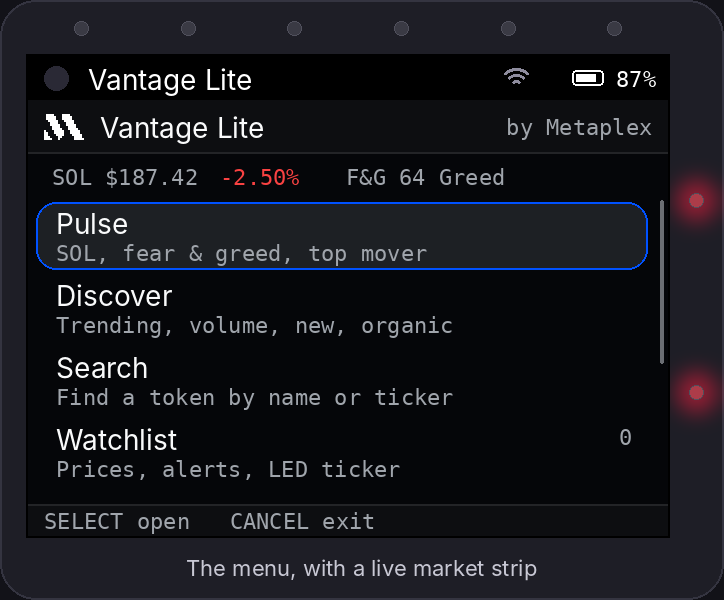
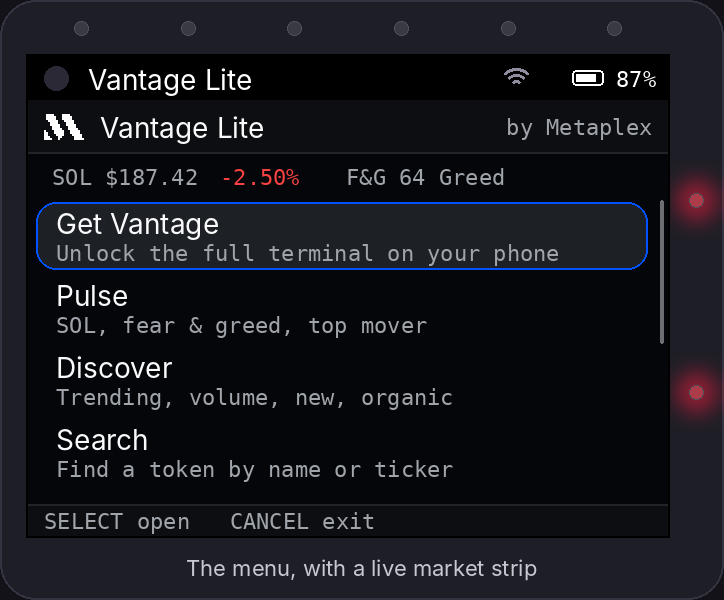
Get Vantage: unlock the real Vantage terminal for a badge's owner
A new first menu item on the badge shows a QR code that opens
https://vantage.metaplex.com/badge?t=<ticket>. Signing in there grants
that account Vantage access, one account per badge owner (the Vantage
side is metaplex-global/genesis-app, apps/terminal/app/api/badge-access).

Server: POST /v1/vantage-access mints the ticket only for a request the
badge server signed and only for a claimed badge (its owner's user id):
85 bytes, base64url, version + first 16 bytes of SHA-256(owner id) +
expiry (10 minutes) + an Ed25519 signature over a domain-separated
payload, with VANTAGE_ACCESS_SIGNING_KEY (unset: 404, "off on this
server"). 20 links a day per badge. npm run access:keygen prints the
signing key for Railway and the public key for Vantage's
BADGE_ACCESS_PUBLIC_KEY.

Badge: screens/vantage.lua, with the steps, a countdown, SELECT for a
new code and an expired code hidden.

Tests: the minted ticket against an independent copy of Vantage's
check, the route's refusals and daily cap; two new badge scenarios (24
pass); fixtures and renders regenerated. A one-off run also verified a
ticket minted here with genesis-app's real verifier.

Claude-Session: https://claude.ai/code/session_01J3iNRJYCuCTFMc8fS2BbsN

diff --git a/server/test/vantage-access.test.ts b/server/test/vantage-access.test.ts
@@ -1,0 +1,81 @@
+import { createHash } from 'node:crypto';
+import { afterEach, beforeAll, describe, expect, it, vi } from 'vitest';
+import { handle } from '../src/app';
+import { DOMAIN, TICKET_TTL_SECONDS, mintTicket, signingKey } from '../src/vantage-access';
+import { installWorld, post, testEnv } from './helpers';
+
+let pair: CryptoKeyPair;
+let pkcs8: string;
+let publicKey: CryptoKey;
+
+beforeAll(async () => {
+  pair = (await crypto.subtle.generateKey('Ed25519', true, ['sign', 'verify'])) as CryptoKeyPair;
+  pkcs8 = Buffer.from((await crypto.subtle.exportKey('pkcs8', pair.privateKey)) as ArrayBuffer).toString('base64');
+  publicKey = pair.publicKey;
+});
+afterEach(() => vi.unstubAllGlobals());
+
+/**
+ * Vantage's check, written out independently of mintTicket (the real one is
+ * apps/terminal/lib/badge-access/ticket.ts in genesis-app): if either side's
+ * layout drifts, this test fails.
+ */
+async function vantageVerify(ticket: string, now: number) {
+  const bytes = Buffer.from(ticket, 'base64url');
+  if (bytes.length !== 85 || bytes[0] !== 1) return null;
+  const message = Buffer.concat([Buffer.from(DOMAIN), bytes.subarray(0, 21)]);
+  const ok = await crypto.subtle.verify('Ed25519', publicKey, bytes.subarray(21), message);
+  const exp = bytes.readUInt32BE(17);
+  if (!ok || now > exp + 60) return null;
+  return { owner: bytes.subarray(1, 17).toString('hex'), exp };
+}
+
+describe('mintTicket', () => {
+  it('mints the 85-byte ticket Vantage verifies, keyed by a hash of the badge owner', async () => {
+    const key = (await signingKey(pkcs8))!;
+    const { ticket, expiresAt } = await mintTicket(key, 'owner-uuid', 1_790_000_000);
+    expect(ticket).toMatch(/^[A-Za-z0-9_-]{114}$/);
+    expect(expiresAt).toBe(1_790_000_000 + TICKET_TTL_SECONDS);
+    expect(await vantageVerify(ticket, 1_790_000_000)).toEqual({
+      owner: createHash('sha256').update('owner-uuid').digest('hex').slice(0, 32),
+      exp: expiresAt,
+    });
+    expect(await vantageVerify(ticket, expiresAt + 61)).toBeNull();
+  });
+
+  it('reads the signing key from base64 PKCS#8, and refuses anything else', async () => {
+    expect(await signingKey(undefined)).toBeNull();
+    expect(await signingKey('AAAA')).toBeNull();
+    expect(await signingKey(pkcs8)).not.toBeNull();
+  });
+});
+
+describe('POST /v1/vantage-access', () => {
+  it('answers a Vantage /badge link for the badge owner', async () => {
+    installWorld();
+    const env = testEnv({ VANTAGE_ACCESS_SIGNING_KEY: pkcs8 });
+    const res = await handle(post('/v1/vantage-access', {}, { 'x-badge-id': 'B1' }), env);
+    expect(res.status).toBe(200);
+    const body = (await res.json()) as { url: string; exp: number };
+    const ticket = body.url.match(/^https:\/\/vantage\.test\/badge\?t=([A-Za-z0-9_-]{114})$/)?.[1];
+    expect(ticket).toBeDefined();
+    expect(body.url.length).toBeLessThanOrEqual(256); // fits a badge QR code
+    expect((await vantageVerify(ticket!, Math.floor(Date.now() / 1000)))?.owner).toBe(
+      createHash('sha256').update('dev').digest('hex').slice(0, 32),
+    );
+  });
+
+  it('is off without a signing key', async () => {
+    const res = await handle(post('/v1/vantage-access', {}), testEnv());
+    expect(res.status).toBe(404);
+    expect(await res.json()).toEqual({ error: 'Get Vantage is off on this server' });
+  });
+
+  it('caps links per badge per day', async () => {
+    installWorld();
+    const env = testEnv({ VANTAGE_ACCESS_SIGNING_KEY: pkcs8 });
+    for (let i = 0; i < 20; i++) await handle(post('/v1/vantage-access', {}, { 'x-badge-id': 'B2' }), env);
+    const res = await handle(post('/v1/vantage-access', {}, { 'x-badge-id': 'B2' }), env);
+    expect(res.status).toBe(429);
+  });
+});

diff --git a/server/src/vantage-access.ts b/server/src/vantage-access.ts
@@ -1,0 +1,52 @@
+// Vantage access for badge owners. The badge asks this server (a request the
+// badge server signed, so we know it is a real badge and which owner holds
+// it); we answer a link to Vantage's /badge page carrying a ticket signed with
+// our key. Vantage checks the ticket with our public key and grants the
+// signed-in account access, one account per badge owner
+// (metaplex-global/genesis-app, apps/terminal/lib/badge-access/ticket.ts).
+//
+// The ticket rides in a QR code, so it is binary and small: 85 bytes,
+// base64url without padding (114 characters).
+//
+//   byte 0       version, 1
+//   bytes 1..16  owner: the first 16 bytes of SHA-256(badge server user id)
+//   bytes 17..20 expiry, unix seconds, big-endian u32
+//   bytes 21..84 Ed25519 signature over DOMAIN || bytes 0..20
+
+export const TICKET_VERSION = 1;
+export const TICKET_TTL_SECONDS = 600;
+export const DOMAIN = new TextEncoder().encode('vantage-badge-access-v1');
+
+let cached: { raw: string; key: Promise<CryptoKey | null> } | null = null;
+
+/** The signing key from VANTAGE_ACCESS_SIGNING_KEY (PKCS#8, base64), or null. */
+export function signingKey(raw: string | undefined): Promise<CryptoKey | null> {
+  if (!raw) return Promise.resolve(null);
+  if (cached?.raw === raw) return cached.key;
+  const key = crypto.subtle
+    .importKey('pkcs8', Buffer.from(raw, 'base64'), 'Ed25519', false, ['sign'])
+    .catch(() => null);
+  cached = { raw, key };
+  return key;
+}
+
+export async function mintTicket(
+  key: CryptoKey,
+  badgeUser: string,
+  now: number = Math.floor(Date.now() / 1000),
+): Promise<{ ticket: string; expiresAt: number }> {
+  const expiresAt = now + TICKET_TTL_SECONDS;
+  const payload = new Uint8Array(21);
+  payload[0] = TICKET_VERSION;
+  const owner = new Uint8Array(await crypto.subtle.digest('SHA-256', new TextEncoder().encode(badgeUser)));
+  payload.set(owner.subarray(0, 16), 1);
+  new DataView(payload.buffer).setUint32(17, expiresAt);
+  const message = new Uint8Array(DOMAIN.length + payload.length);
+  message.set(DOMAIN);
+  message.set(payload, DOMAIN.length);
+  const signature = new Uint8Array(await crypto.subtle.sign('Ed25519', key, message));
+  const ticket = new Uint8Array(85);
+  ticket.set(payload);
+  ticket.set(signature, 21);
+  return { ticket: Buffer.from(ticket).toString('base64url'), expiresAt };
+}

diff --git a/server/test/export-fixtures.test.ts b/server/test/export-fixtures.test.ts
@@ -32,7 +32,9 @@ describe.runIf(out)('export fixtures for the badge harness', () => {
       ],
       usage: { input_tokens: 10, output_tokens: 10 },
     });
-    const env = testEnv({ ANTHROPIC_API_KEY: 'sk-test' });
+    const pair = (await crypto.subtle.generateKey('Ed25519', true, ['sign', 'verify'])) as CryptoKeyPair;
+    const signing = Buffer.from((await crypto.subtle.exportKey('pkcs8', pair.privateKey)) as ArrayBuffer).toString('base64');
+    const env = testEnv({ ANTHROPIC_API_KEY: 'sk-test', VANTAGE_ACCESS_SIGNING_KEY: signing });
     const json = async (req: Request) => {
       const res = await handle(req, env);
       expect(res.status).toBe(200);
@@ -51,12 +53,17 @@ describe.runIf(out)('export fixtures for the badge harness', () => {
       portfolio: await json(get(`/v1/portfolio/${WALLET}`)),
       swap: await json(post('/v1/swap', { side: 'buy', mint: BONK, lamports: '100000000' })),
       ask: await json(post('/v1/ask', { q: 'Is Bonk safe to trade?', mint: BONK })),
+      'vantage-access': await json(post('/v1/vantage-access', {})),
       'swap-status': [{ st: 'waiting' }, { st: 'signing', w: WALLET }, { st: 'done', w: WALLET, sig: '5UfgJ5vVZxUxefDGqzqkVLHzHxVTyYH9StYyHKgvHYmXJgqJKxEqy7k4', ok: true }],
     };
     // The intent id is random: pin it so the file only changes when a shape does.
     const swap = fixtures.swap as { id: string; url: string };
     swap.url = swap.url.replace(swap.id, 'FixtureSwap1');
     swap.id = 'FixtureSwap1';
+    // The ticket is signed with a fresh key each run: pin a stand-in of the same length.
+    const access = fixtures['vantage-access'] as { url: string; exp: number };
+    access.url = access.url.replace(/t=[A-Za-z0-9_-]+$/, `t=${'A'.repeat(114)}`);
+    access.exp = 1_790_000_600;
     writeFileSync(out!, `${JSON.stringify(fixtures, null, 2)}\n`);
   });
 });

diff --git a/server/src/app.ts b/server/src/app.ts
@@ -12,6 +12,7 @@
 //   POST /v1/swap          -> {id, url, out, impact, route}
 //   GET  /v1/swap/:id      -> {st, ...}
 //   POST /v1/ask           {q, mint?} -> {a}
+//   POST /v1/vantage-access -> {url, exp}  a Vantage access link for this badge's owner
 
 import { ask } from './ask';
 import { caller } from './badge-auth';
@@ -24,6 +25,7 @@ import type { ChartRange } from './sources/gecko';
 import { tokenInfo } from './sources/jupiter';
 import { isIntentId, newIntentId, preview, validateIntent } from './swap';
 import { UpstreamError } from './upstream';
+import { mintTicket, signingKey } from './vantage-access';
 import { ICON_PNG_BASE64 } from './icon';
 
 const CORS = {
@@ -144,6 +146,15 @@ async function badgeRoute(req: Request, env: Env, url: URL, route: string): Prom
         url: `solana:${env.PUBLIC_ORIGIN}/pay/${intent.id}`,
         ...look,
       });
+    }
+    if (route === 'vantage-access') {
+      const key = await signingKey(env.VANTAGE_ACCESS_SIGNING_KEY);
+      if (!key) return badgeError('Get Vantage is off on this server', 404);
+      // The badge server sends an owner's user id; an unclaimed badge has none.
+      if (!who.user) return badgeError('Claim this badge first', 403);
+      if (!(await allow(env, 'access', who.badge))) return badgeError('daily limit reached', 429);
+      const { ticket, expiresAt } = await mintTicket(key, who.user);
+      return badgeJson({ url: `${env.VANTAGE_ACCESS_ORIGIN}/badge?t=${ticket}`, exp: expiresAt });
     }
     if (route === 'ask') {
       if (!env.ANTHROPIC_API_KEY) return badgeError('Ask Vantage is off on this server', 404);

diff --git a/server/src/main.ts b/server/src/main.ts
@@ -25,6 +25,8 @@ export function loadEnv(vars: NodeJS.ProcessEnv, kv: KV): Env {
     JUPITER_API_KEY: vars.JUPITER_API_KEY || undefined,
     SOLANA_RPC_URL: vars.SOLANA_RPC_URL ?? 'https://api.mainnet-beta.solana.com',
     ANTHROPIC_API_KEY: vars.ANTHROPIC_API_KEY || undefined,
+    VANTAGE_ACCESS_SIGNING_KEY: vars.VANTAGE_ACCESS_SIGNING_KEY || undefined,
+    VANTAGE_ACCESS_ORIGIN: vars.VANTAGE_ACCESS_ORIGIN ?? 'https://vantage.metaplex.com',
     BADGE_SERVER_ORIGIN: vars.BADGE_SERVER_ORIGIN || undefined,
   } as Env;
   Object.assign(env, namespaces(kv, () => env));
@@ -87,6 +89,9 @@ async function main() {
   serve(env, port);
   console.log(`[vantage-lite] listening on :${port} as ${env.PUBLIC_ORIGIN}`);
   if (!env.ANTHROPIC_API_KEY) console.log('[vantage-lite] ANTHROPIC_API_KEY not set: Ask Vantage is off');
+  if (!env.VANTAGE_ACCESS_SIGNING_KEY) {
+    console.log('[vantage-lite] VANTAGE_ACCESS_SIGNING_KEY not set: Get Vantage is off');
+  }
 }
 
 if (import.meta.url === `file://${process.argv[1]}`) {

diff --git a/server/scripts/access-keygen.ts b/server/scripts/access-keygen.ts
@@ -1,0 +1,19 @@
+// Makes the key pair for badge access to Vantage:
+//
+//   npm run access:keygen
+//
+// VANTAGE_ACCESS_SIGNING_KEY goes in this server's Railway variables (it signs
+// tickets; keep it secret). BADGE_ACCESS_PUBLIC_KEY goes in the Vantage
+// terminal's Vercel env (it only verifies; it is no secret).
+
+const pair = (await crypto.subtle.generateKey('Ed25519', true, ['sign', 'verify'])) as CryptoKeyPair;
+const privateKey = Buffer.from((await crypto.subtle.exportKey('pkcs8', pair.privateKey)) as ArrayBuffer);
+const publicKey = Buffer.from((await crypto.subtle.exportKey('raw', pair.publicKey)) as ArrayBuffer);
+
+console.log('Railway (this server), secret:');
+console.log(`VANTAGE_ACCESS_SIGNING_KEY=${privateKey.toString('base64')}`);
+console.log('');
+console.log('Vantage terminal (Vercel), public:');
+console.log(`BADGE_ACCESS_PUBLIC_KEY=${publicKey.toString('base64')}`);
+
+export {};

diff --git a/server/src/env.ts b/server/src/env.ts
@@ -13,6 +13,10 @@ export interface Env {
   JUPITER_API_KEY?: string;
   SOLANA_RPC_URL: string;
   ANTHROPIC_API_KEY?: string;
+  /** Ed25519 private key (PKCS#8, base64) that signs Vantage access tickets. */
+  VANTAGE_ACCESS_SIGNING_KEY?: string;
+  /** Where tickets are redeemed: Vantage's origin (its /badge page). */
+  VANTAGE_ACCESS_ORIGIN: string;
   /** Origin of the badge server whose key signs badge requests. */
   BADGE_SERVER_ORIGIN?: string;
   /** Swap intents by id. */

diff --git a/server/test/helpers.ts b/server/test/helpers.ts
@@ -178,6 +178,7 @@ export function testEnv(over: Partial<Env> = {}): Env {
     JUPITER_ORIGIN: 'https://jup.test',
     SOLANA_RPC_URL: 'https://rpc.test',
     BADGE_SERVER_ORIGIN: 'https://badge.test',
+    VANTAGE_ACCESS_ORIGIN: 'https://vantage.test',
     ...over,
   } as Env;
   // The same storage path production uses, over the in-memory KV.

diff --git a/server/src/limits.ts b/server/src/limits.ts
@@ -7,6 +7,7 @@ import type { Env } from './env';
 export const DAILY = {
   ask: 25,
   swap: 60,
+  access: 20,
 } as const;
 
 export async function allow(env: Env, kind: keyof typeof DAILY, who: string): Promise<boolean> {

diff --git a/README.md b/README.md
@@ -24,6 +24,7 @@ It carries the Metaplex mark on every screen and follows Vantage's design langua
 | **Portfolio**: what a wallet holds, by value. Uses the wallet you last swapped from, or the Solana address you linked at the badge site's `/profile` | Portfolio |
 | **Ask Vantage**: canned or typed questions, answered by Claude from a live market and token snapshot (optional, needs your own Anthropic key) | Assistant |
 | **Open in Vantage**: a QR code for the token's public page on vantage.metaplex.com | n/a |
+| **Get Vantage**: a QR code that unlocks the full Vantage terminal for the badge owner's account, one account per badge (see [Vantage access for badge owners](#vantage-access-for-badge-owners)) | The waitlist, skipped |
 
 ## Screens
 
@@ -127,6 +128,7 @@ The server is plain Node (`server/`, `npm start`) with Redis for its state.
 | `SOLANA_RPC_URL` | A private mainnet RPC. The public default is rate-limited; use your own for anything beyond a demo. |
 | `JUPITER_API_KEY` | With `JUPITER_ORIGIN=https://api.jup.ag`, Jupiter's keyed tier. The default is the free, rate-limited `lite-api.jup.ag`. |
 | `PUBLIC_ORIGIN` | Only for a custom domain (see step 3). |
+| `VANTAGE_ACCESS_SIGNING_KEY` | Turns on Get Vantage (see [Vantage access for badge owners](#vantage-access-for-badge-owners)). |
 
 6. Deploy, then check it's up. It should print `ok`; the `/v1/...` routes answer 401 to
    anything that isn't a badge.
@@ -137,6 +139,33 @@ curl https://<name>.up.railway.app/healthz
 
 Keep it at **one replica**: each swap's calls are queued in the process (`src/state.ts`), so
 two replicas could step on each other's writes.
+
+### Vantage access for badge owners
+
+"Get Vantage" on the badge gives the owner the real Vantage terminal. The badge asks this
+server for a link; the server knows which owner is asking from the badge server's signature
+and answers `https://vantage.metaplex.com/badge?t=<ticket>`, a ticket signed with this server's
+key. The owner scans it, signs in to Vantage, and Vantage grants that account access. Vantage
+holds only the public key and records each badge owner it has granted, so one badge unlocks
+one account (metaplex-global/genesis-app: `apps/terminal/app/api/badge-access/`,
+`apps/terminal/lib/badge-access/ticket.ts` documents the ticket).
+
+To turn it on:
+
+1. Make the key pair:
+
+   ```bash
+   cd server && npm run access:keygen
+   ```
+
+2. In Railway, add `VANTAGE_ACCESS_SIGNING_KEY` from that output (secret).
+3. In the Vantage terminal's Vercel project, add `BADGE_ACCESS_PUBLIC_KEY` from that output
+   (public), and deploy the genesis-app change that adds `/badge`.
+4. In Vantage's `/admin/flags`, set `terminal-badge-access` to **enabled**. It is the kill
+   switch: off, `/badge` behaves like the home page and nothing is granted.
+
+Without the signing key the badge's Get Vantage screen says it is off on this server.
+`VANTAGE_ACCESS_ORIGIN` points the links somewhere other than vantage.metaplex.com (a preview).
 
 ### 2. Point the app at it
 
@@ -156,7 +185,7 @@ permissions.
 ## Develop
 
 ```bash
-cd server && npm test            # 40 tests: routes, swap lifecycle, badge signatures, the Node server, formatting
+cd server && npm test            # 45 tests: routes, swap lifecycle, badge signatures, Vantage access tickets, the Node server, formatting
 ```
 
 ```bash
@@ -164,7 +193,7 @@ cd server && npm run typecheck
 ```
 
 ```bash
-tools/harness/run.sh             # 20 scenarios: every screen, key by key, on the badge's Lua 5.5
+tools/harness/run.sh             # 24 scenarios: every screen, key by key, on the badge's Lua 5.5
 ```
 
 `run.sh` clones solana-os into `.cache/` the first time (or set `SOLANA_OS=` to a checkout) and
